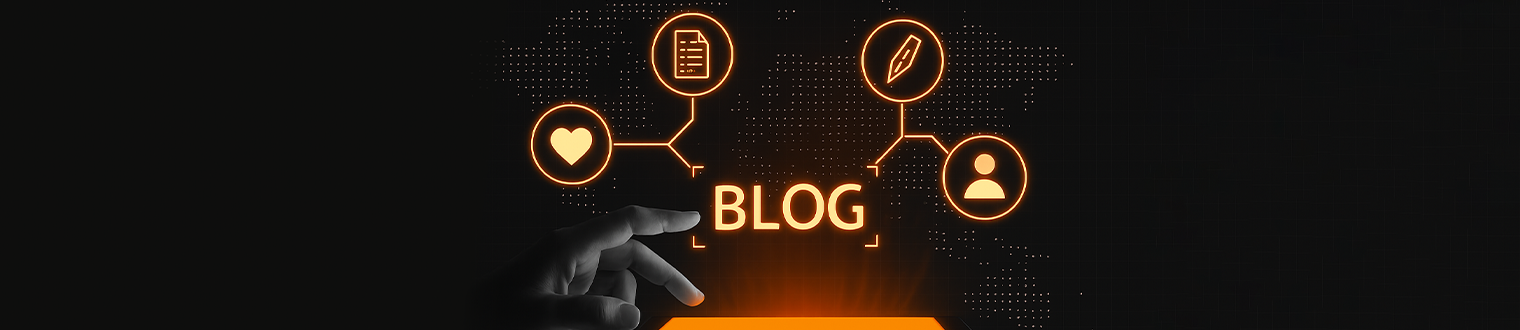
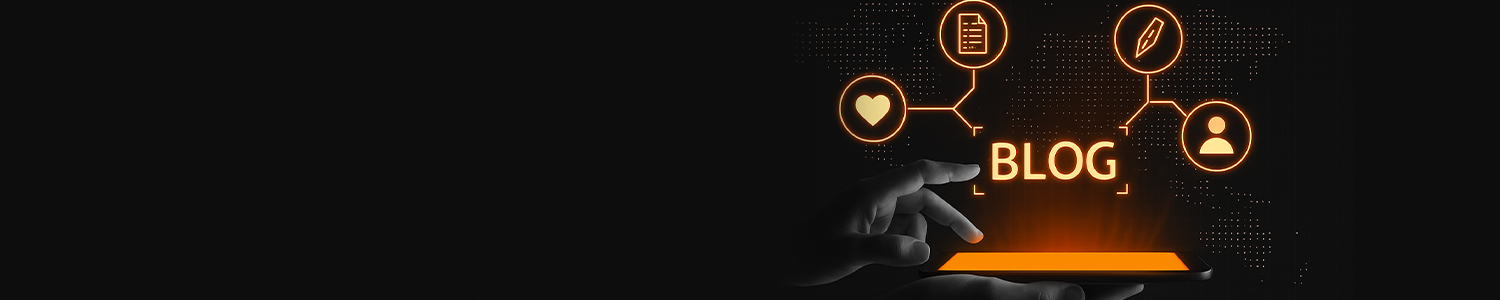
changes

Changed region(s): [[0.3373, 0.0, 0.8587, 1.0]]

diff --git a/src/app/blogs/page/[page]/page.tsx b/src/app/blogs/page/[page]/page.tsx
@@ -42,7 +42,7 @@ export default async function BlogPaginatedPage({ params }: {params: Promise<{pa
     <>
       <PageBanner
         pageName="Blogs"
-        bgImg={"/media/product_category_banner.jpeg"}
+        bgImg={"/media/blog-banner.webp"}
         breadcrum={[
           {
             slug_name: "Blogs",

diff --git a/src/app/blogs/page.tsx b/src/app/blogs/page.tsx
@@ -37,7 +37,7 @@ export default async function BlogPage() {
     <>
       <PageBanner
         pageName="Blogs"
-        bgImg={"/media/product_category_banner.jpeg"}
+        bgImg={"/media/blog-banner.webp"}
         breadcrum={[
           {
             slug_name: "Blogs",
